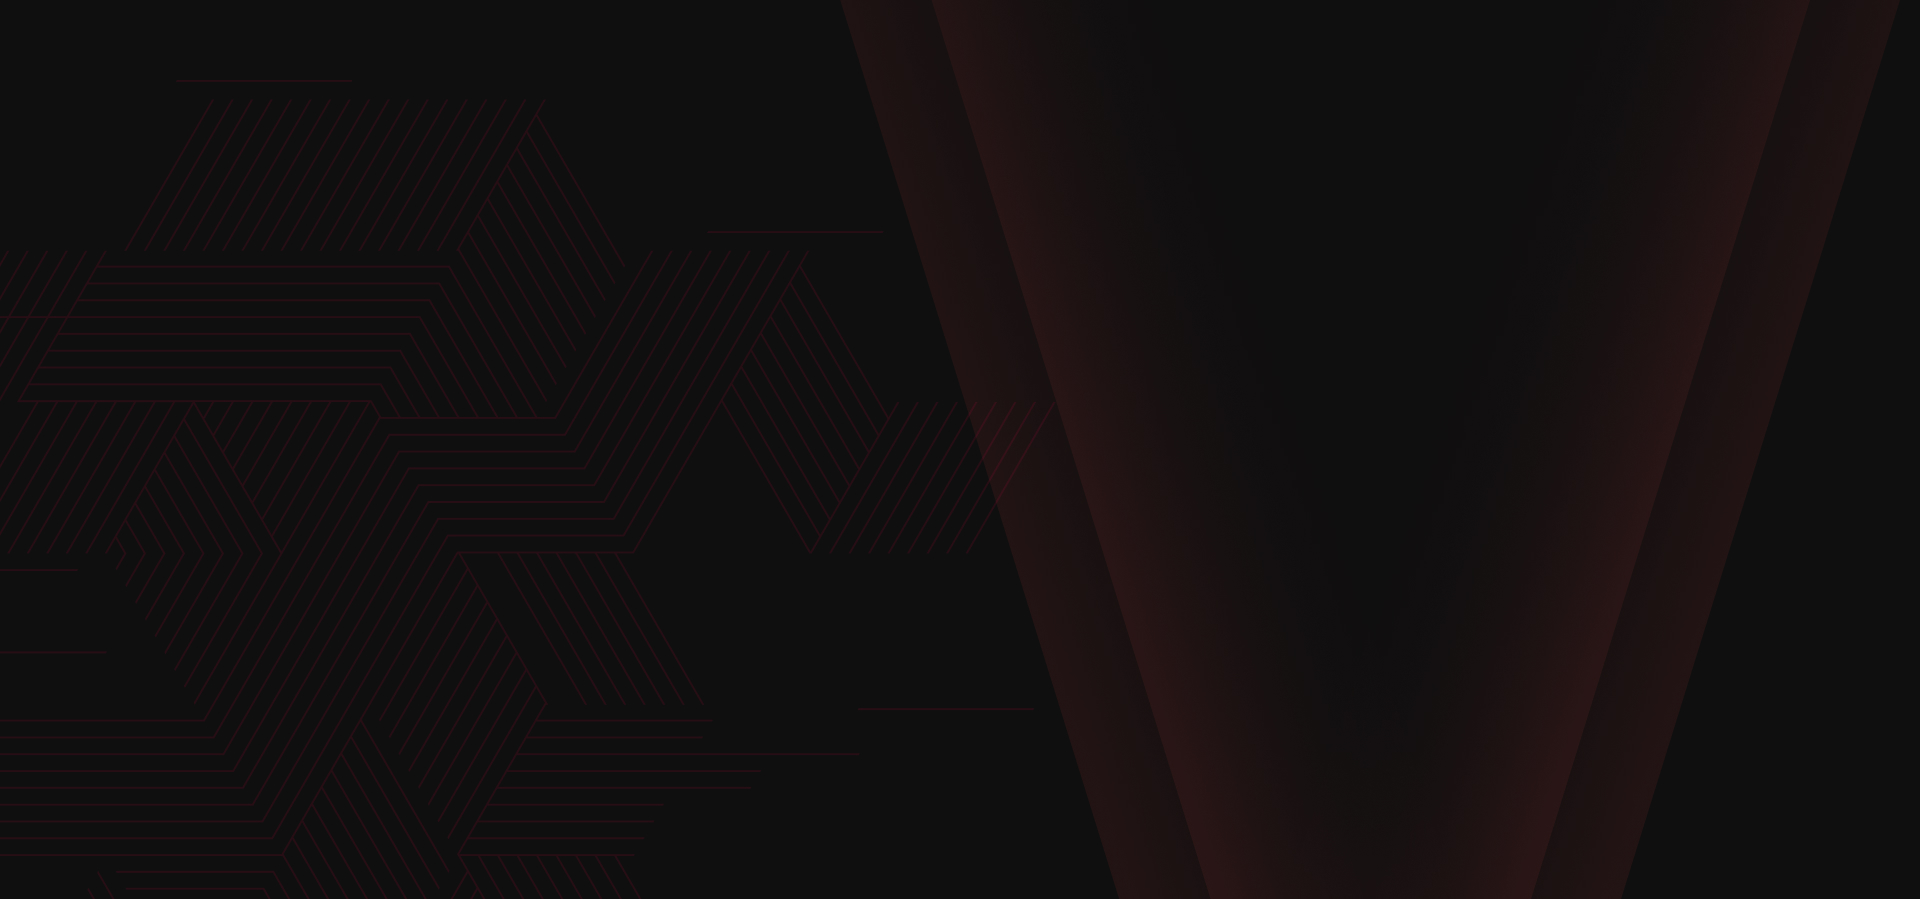
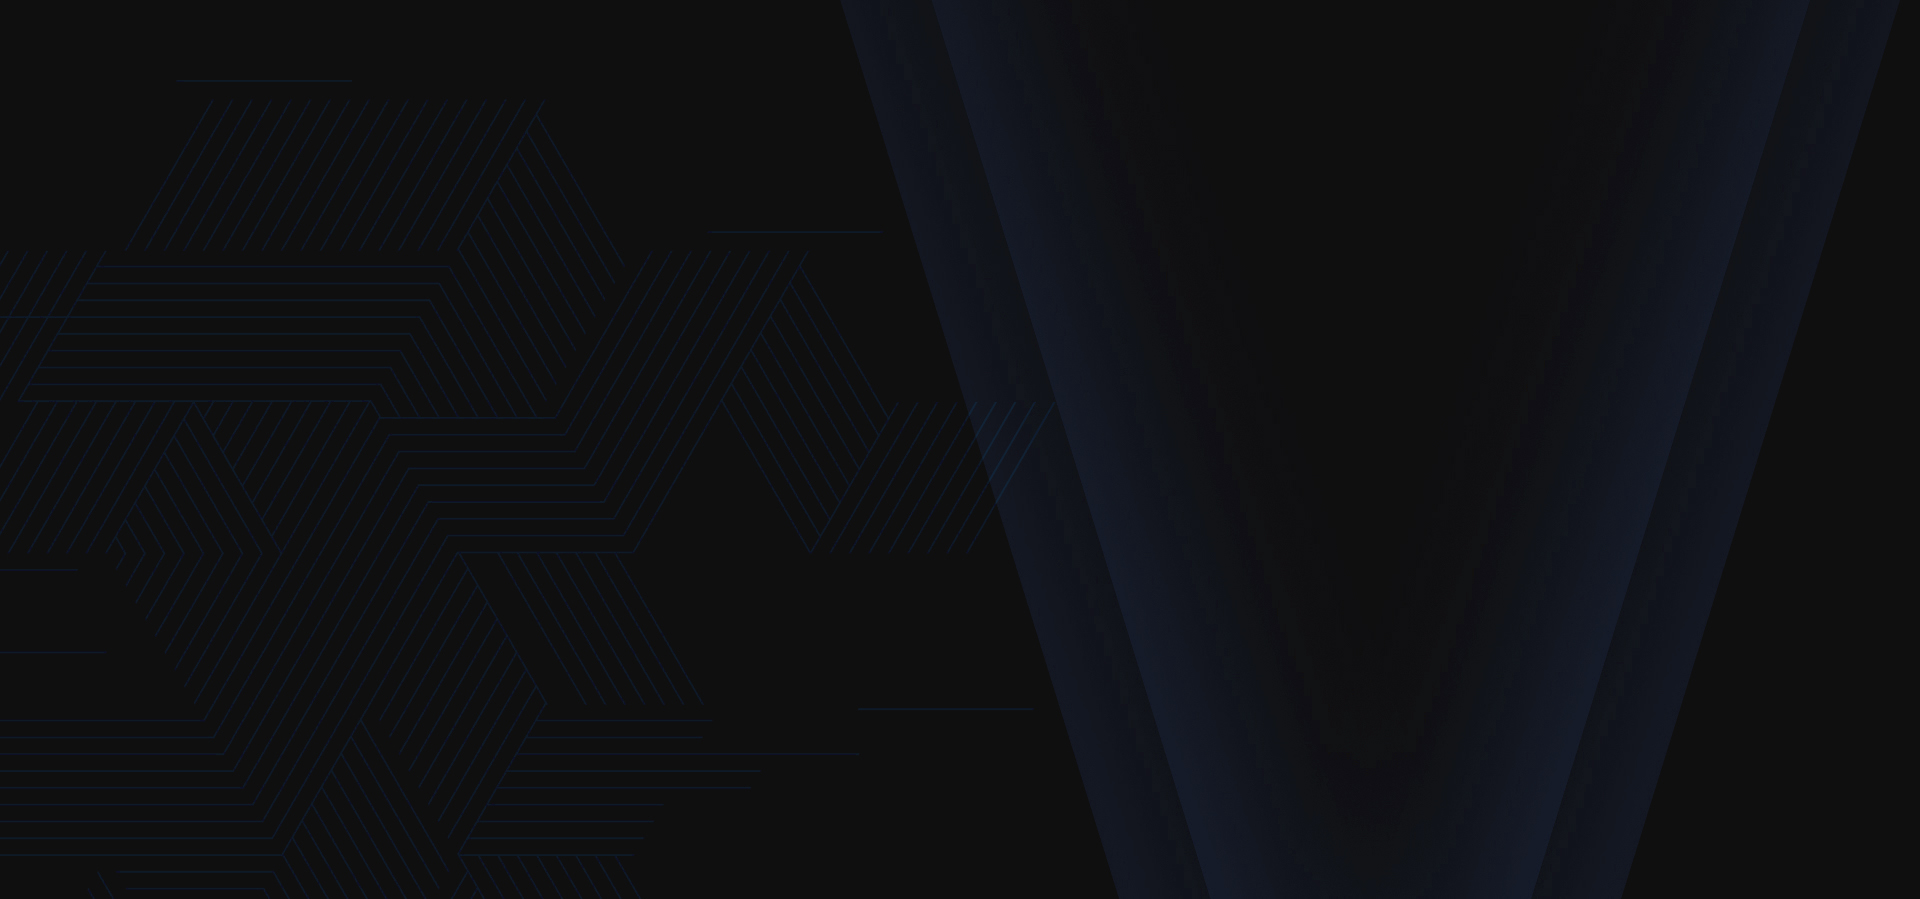
Color Change

Changed region(s): [[0.25, 0.5295, 0.3125, 0.5606]]

diff --git a/assets/css/style.css b/assets/css/style.css
@@ -59,27 +59,27 @@
 @import url("https://fonts.googleapis.com/css2?family=Rajdhani:wght@300;400;500;600;700&display=swap");
 @import url("https://fonts.googleapis.com/css2?family=Rubik:ital,wght@0,300..900;1,300..900&display=swap");
 :root {
-  --color-primary: #FF014F;
-  --color-primary-alt: #ff014dd9;
-  --color-primary-2nd: #FF494A;
+  --color-primary: #4100FC;
+  --color-primary-alt: #1F007A;
+  --color-primary-2nd: #3300CC;
   --color-primary-3rd: #FDC448;
   --color-primary-4th: #0071ff;
   --color-secondary: #060606;
   --color-white:#ffffff;
   --color-gray: #9F9F9F;
   --color-gray-2: #141414;
-  --color-subtitle: #f9004d;
+  --color-subtitle: #4100FC;
   --background-color-1: #24243557;
   --background-color-2: #13131d;
   --background-color-3: #151521;
   --background-color-4: #242435;
   --background-color-5: #EDF5FF;
   --color-card: #1b1b1c;
-  --gradient-box: linear-gradient(to right, #5237f9, #FF014F);
-  --gradient-one: linear-gradient(to right bottom, #E42032, #1273EB);
-  --gradient-two: linear-gradient(to right, #ED145B, #4A11EB);
+  --gradient-box: linear-gradient(to right, #5237f9, #4100FC);
+  --gradient-one: linear-gradient(to right bottom, #3300CC, #1273EB);
+  --gradient-two: linear-gradient(to right, #3300CC, #4A11EB);
   --gradient-three: linear-gradient(to right, #03041c, #0612b3);
-  --text-gradient-one:linear-gradient(to right, #E42032, #4A11EB);
+  --text-gradient-one:linear-gradient(to right, #3300CC, #4A11EB);
   --color-heading:#ffffff;
   --color-body: #9f9f9f;
   --color-dark:#1d1d1d;